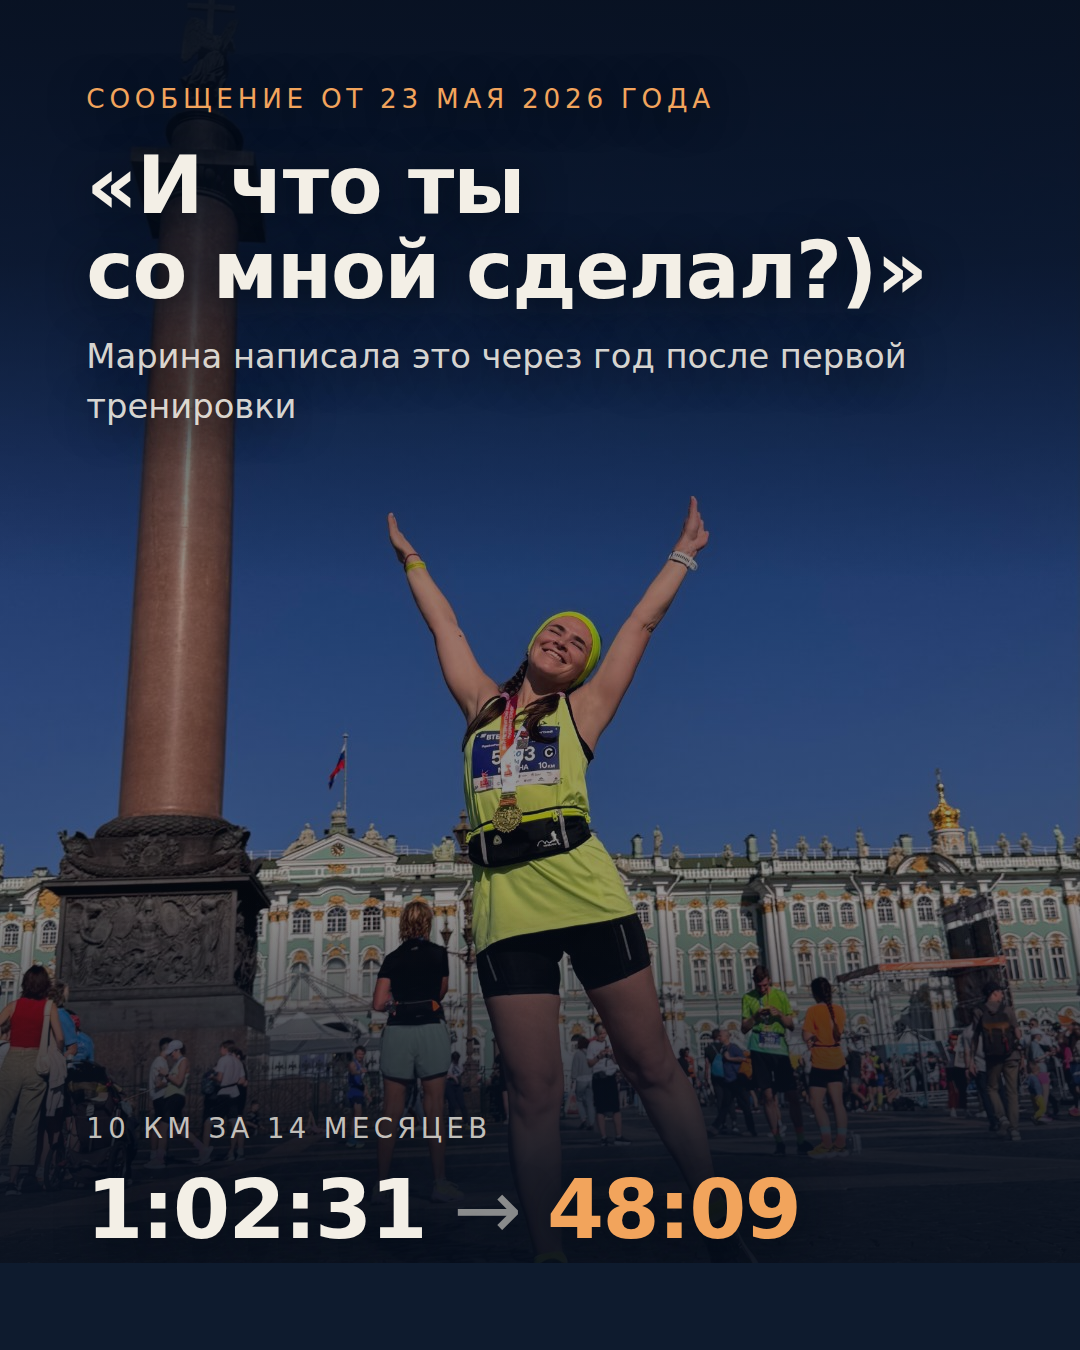
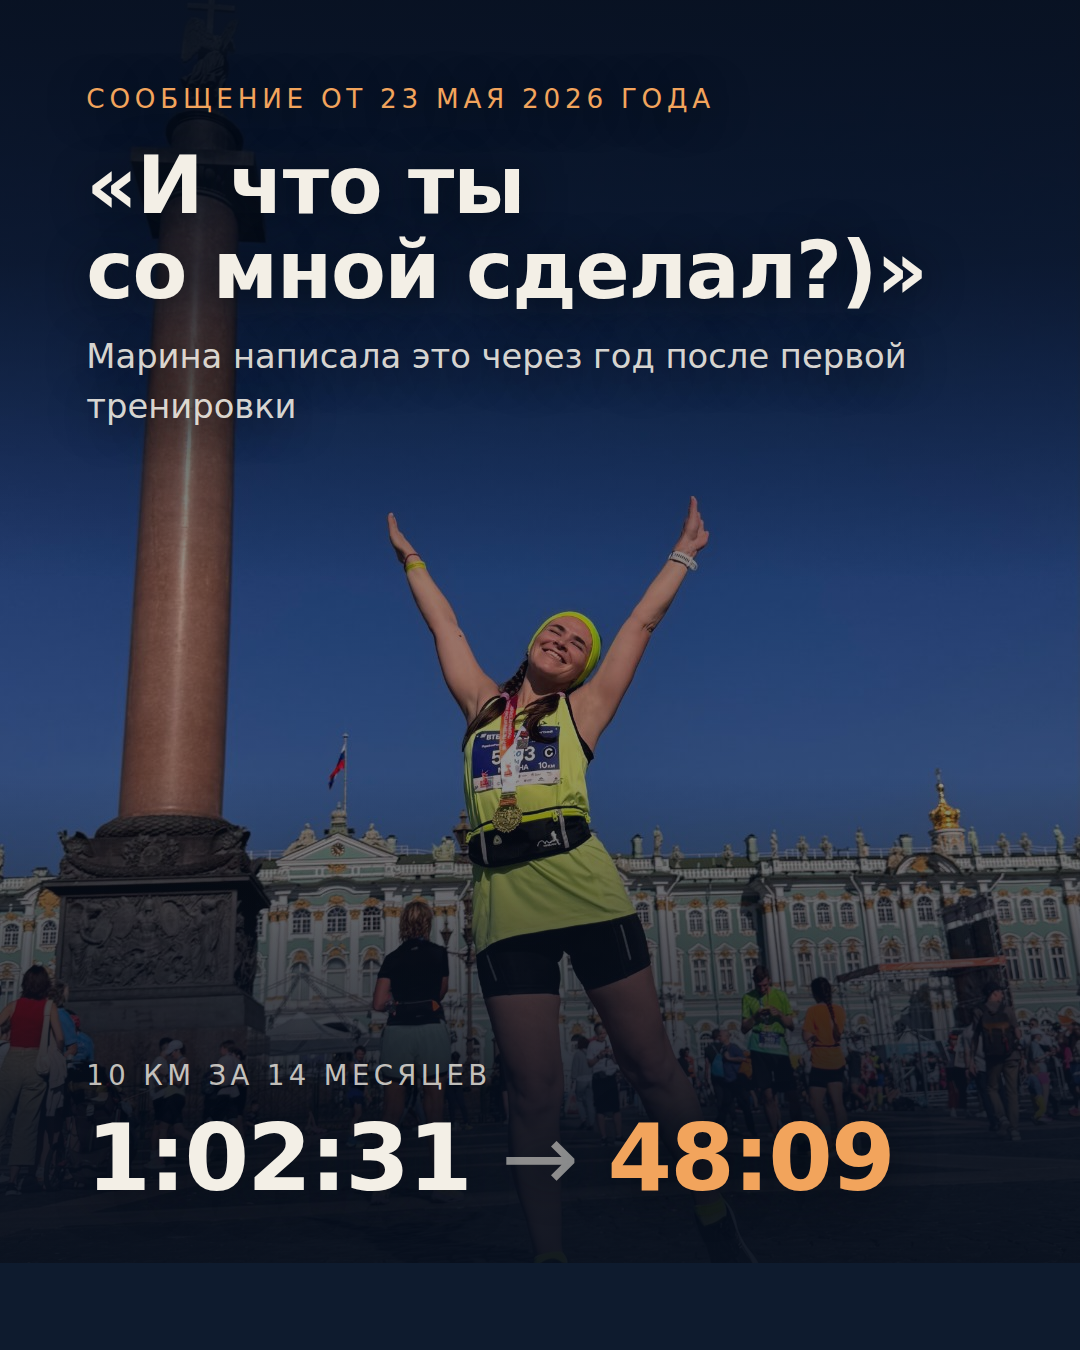
Кейс Марины: финальная обложка без полоски
Разделительная линия и подпись убраны, цифры увеличены и подняты от края:
низ обложки перестал пустовать, результат работает как финальный акцент.

Claude-Session: https://claude.ai/code/session_01TCkfnjNSfYqVL2bsDidSCb

Changed region(s): [[0.0611, 0.6222, 1.0, 0.9333], [0.0, 0.6222, 0.0611, 0.7778]]

diff --git a/docs/cases/marina-nikolaeva/instagram-carousel-mockup.html b/docs/cases/marina-nikolaeva/instagram-carousel-mockup.html
@@ -40,7 +40,7 @@
     background-size:cover;background-position:center}
   .cover-top,.cover-bottom{text-shadow:0 2px 16px rgba(5,10,20,.85)}
   .cover-top{padding:7.5% 8% 14%;background:linear-gradient(180deg, rgba(8,16,30,.9) 0%, rgba(8,16,30,.7) 45%, rgba(8,16,30,.25) 80%, rgba(8,16,30,0) 100%)}
-  .cover-bottom{padding:20% 8% 9%;background:linear-gradient(0deg, rgba(8,16,30,.96) 0%, rgba(8,16,30,.85) 40%, rgba(8,16,30,.45) 72%, rgba(8,16,30,0) 100%)}
+  .cover-bottom{padding:26% 8% 13%;background:linear-gradient(0deg, rgba(8,16,30,.96) 0%, rgba(8,16,30,.85) 40%, rgba(8,16,30,.45) 72%, rgba(8,16,30,0) 100%)}
   .cover .foot{margin-top:12px}
 
   .slide.shot-slide{padding:0;justify-content:space-between;background-size:cover;background-position:center}
@@ -119,7 +119,7 @@
         </div>
         <div class="cover-bottom">
           <div style="font-size:11px;letter-spacing:.16em;text-transform:uppercase;color:rgba(243,239,230,.8);margin-bottom:6px">10 км за 14 месяцев</div>
-          <div class="hero-num num" style="font-size:clamp(24px,7.6cqw,36px)">1:02:31 <span class="arrow" style="color:rgba(243,239,230,.55)">→</span> <span class="to">48:09</span></div>
+          <div class="hero-num num" style="font-size:clamp(26px,8.6cqw,40px)">1:02:31 <span class="arrow" style="color:rgba(243,239,230,.55)">→</span> <span class="to">48:09</span></div>
         </div>
       </div>
     </div>
